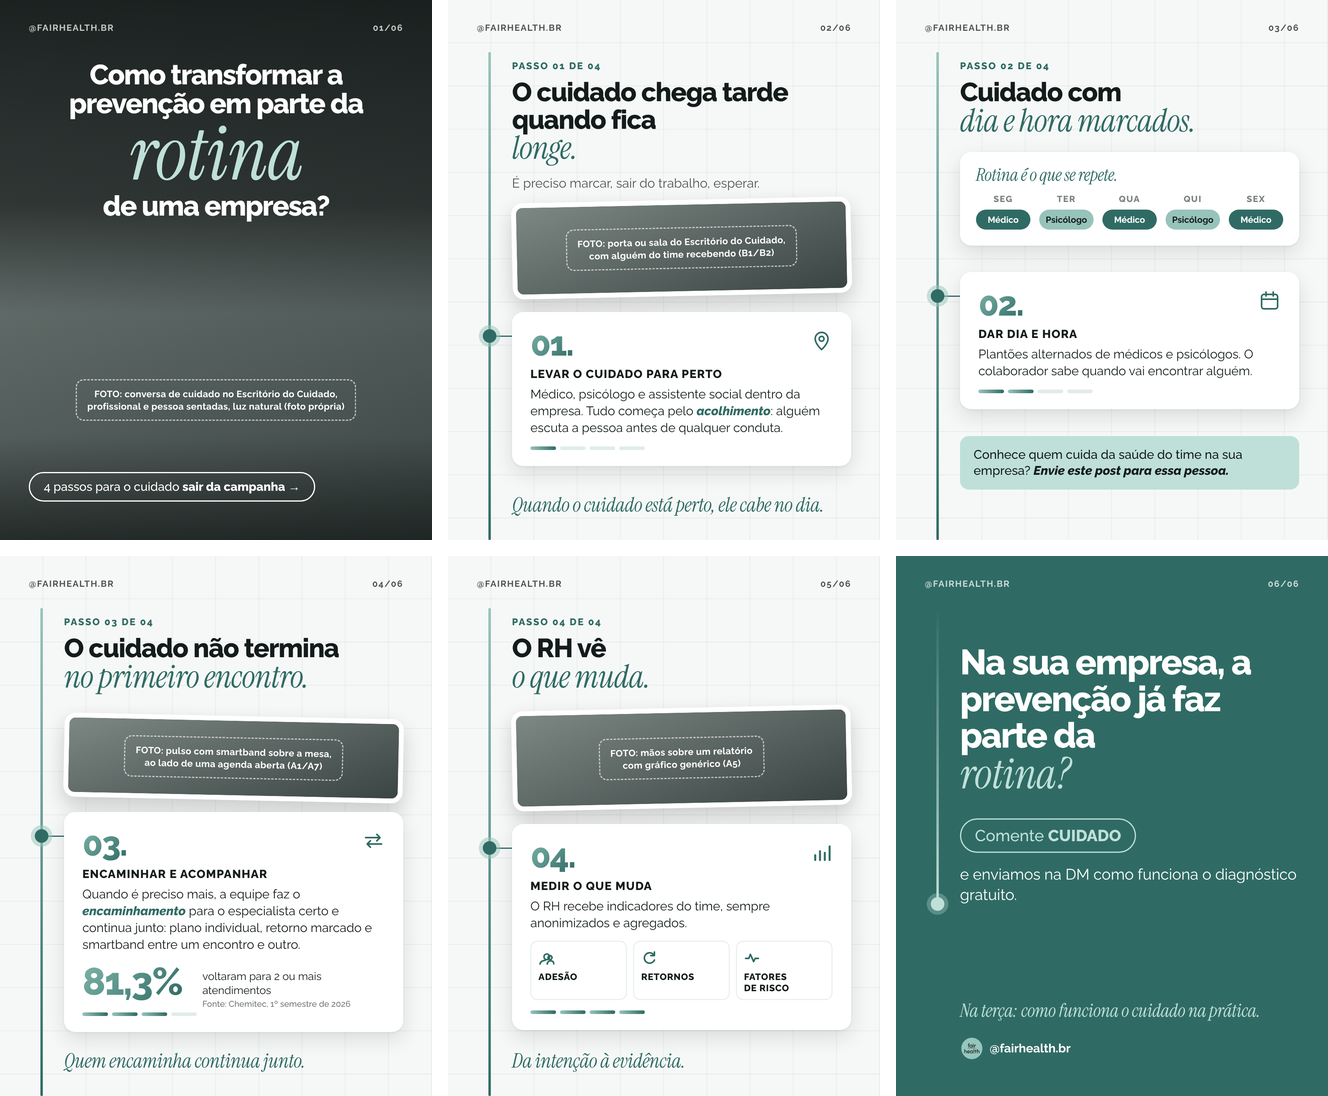
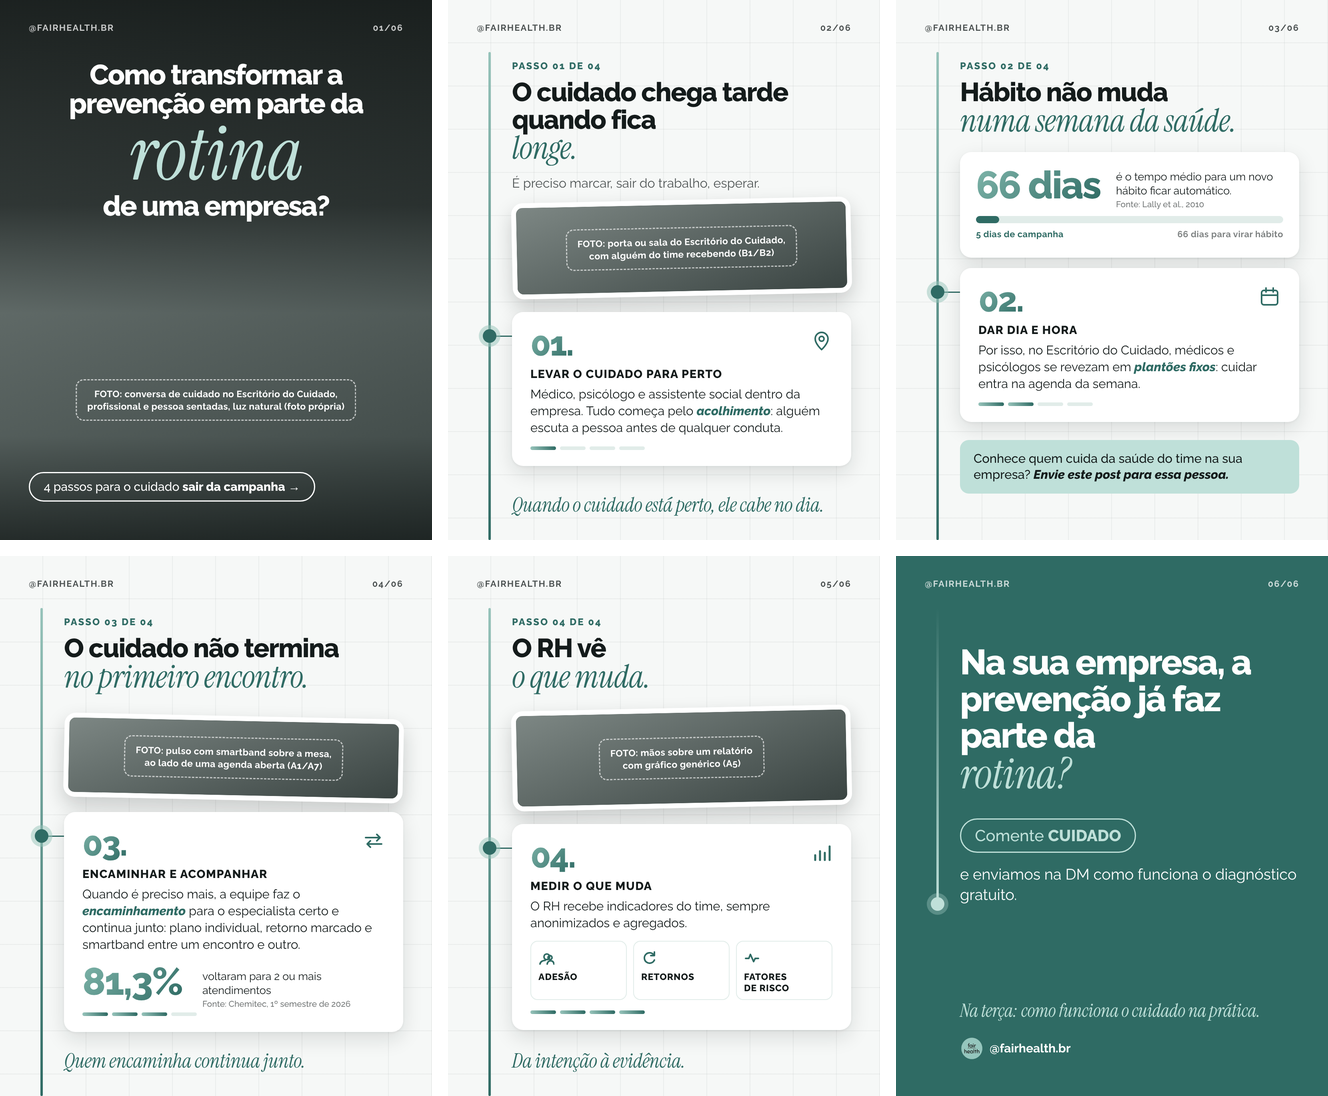
30/10 slide 3: habit takes 66 days, a health week lasts 5; fixed shifts as the answer
Claude-Session: https://claude.ai/code/session_01WTGmTaRhjyKBgMjzkeci7z

Changed region(s): [[0.7101, 0.1551, 0.988, 0.4653], [0.7101, 0.062, 0.9262, 0.1241], [0.6792, 0.2482, 0.7101, 0.2792]]

diff --git a/instagram/posts/rotina/canva.html b/instagram/posts/rotina/canva.html
@@ -114,6 +114,10 @@ b,em{font-weight:800;font-style:italic}
 .med{background:var(--escuro)}.med-t{color:#fff}
 .psi{background:var(--agua)}.psi-t{color:var(--tinta)}
 .cta{position:absolute;left:160px;right:72px;background:var(--menta);border-radius:22px}
+.dias{position:relative;height:66px;margin-top:22px}
+.dias-f{position:absolute;left:0;right:0;top:0;height:18px;border-radius:9px;background:#E1ECE9}
+.dias-c{position:absolute;left:0;top:0;width:58px;height:18px;border-radius:9px;background:var(--escuro)}
+.dias-l{position:absolute;top:32px;font-size:22px;font-weight:700;letter-spacing:.5px}
 
 /* Indicadores (slide 5). */
 .inds{position:relative;height:148px;margin-top:24px}
@@ -177,33 +181,35 @@ body{background:none;margin:0}
   <p class="fecho abs" style="left:160px;right:72px;bottom:62px">Quando o cuidado está perto, ele cabe no dia.</p>
 </section>
 
-<!-- 3 · PASSO 02 + CTA: plantões com dia e hora. A semana é o visual do slide. -->
+<!-- 3 · PASSO 02 + CTA: por que o cuidado precisa de dia e hora. Hábito leva semanas, uma
+     campanha dura dias; a barra mostra os 5 dias da semana da saúde contra os 66 dias do hábito. -->
 <section data-document-role="page" class="slide ed grade" id="r-03">
   <div class="topo"><span>@fairhealth.br</span><span>03/06</span></div>
   <div class="trilho"></div>
   <p class="rotulo abs" style="left:160px;top:150px">Passo 02 de 04</p>
-  <h2 class="h tit" style="top:196px">Cuidado com</h2>
-  <p class="serif tit-s" style="top:262px">dia e hora marcados.</p>
+  <h2 class="h tit" style="top:196px">Hábito não muda</h2>
+  <p class="serif tit-s" style="top:262px">numa semana da saúde.</p>
   <div class="cartao" style="top:380px;padding:34px 40px 38px">
-    <p class="fecho" style="font-size:44px">Rotina é o que se repete.</p>
-    <div class="semana">
-        <p class="dia-l" style="left:0px">SEG</p><div class="dia-c med" style="left:0px"></div><p class="dia-t med-t" style="left:0px">Médico</p>
-        <p class="dia-l" style="left:158px">TER</p><div class="dia-c psi" style="left:158px"></div><p class="dia-t psi-t" style="left:158px">Psicólogo</p>
-        <p class="dia-l" style="left:316px">QUA</p><div class="dia-c med" style="left:316px"></div><p class="dia-t med-t" style="left:316px">Médico</p>
-        <p class="dia-l" style="left:474px">QUI</p><div class="dia-c psi" style="left:474px"></div><p class="dia-t psi-t" style="left:474px">Psicólogo</p>
-        <p class="dia-l" style="left:632px">SEX</p><div class="dia-c med" style="left:632px"></div><p class="dia-t med-t" style="left:632px">Médico</p>
+    <div style="position:relative;height:104px">
+      <span class="n abs" style="left:0;top:0;font-size:96px">66 dias</span>
+      <div class="abs" style="left:350px;right:0;top:10px"><p class="c" style="margin:0;font-size:27px;line-height:1.3">é o tempo médio para um novo hábito ficar automático.</p><p class="fonte" style="margin-top:4px">Fonte: Lally et al., 2010</p></div>
+    </div>
+    <div class="dias">
+      <div class="dias-f"></div><div class="dias-c"></div>
+      <p class="dias-l" style="left:0;color:var(--escuro)">5 dias de campanha</p>
+      <p class="dias-l" style="right:0;opacity:.55">66 dias para virar hábito</p>
     </div>
   </div>
-  <div class="ponto" style="top:740px"></div><div class="liga" style="top:740px"></div>
-  <div class="cartao" style="top:680px">
+  <div class="ponto" style="top:730px"></div><div class="liga" style="top:730px"></div>
+  <div class="cartao" style="top:670px">
     <span class="n">02.</span>
     <div class="ic"><svg viewBox="0 0 56 56" fill="none" stroke="#2F6B64" stroke-width="4" stroke-linecap="round" stroke-linejoin="round"><rect x="8" y="12" width="40" height="36" rx="6"/><path d="M8 24h40M19 6v10M37 6v10"/></svg></div>
     <p class="t">Dar dia e hora</p>
-    <p class="c">Plantões alternados de médicos e psicólogos. O colaborador sabe quando vai encontrar alguém.</p>
+    <p class="c">Por isso, no Escritório do Cuidado, médicos e psicólogos se revezam em <b>plantões fixos</b>: cuidar entra na agenda da semana.</p>
     <div class="barra"><i class="on"></i><i class="on"></i><i></i><i></i></div>
   </div>
-  <div class="cta" style="top:1090px;height:134px"></div>
-  <p class="abs" style="left:194px;right:106px;top:1116px;font-size:31px;line-height:1.3;font-weight:500;color:var(--tinta)">Conhece quem cuida da saúde do time na sua empresa? <b>Envie este post para essa pessoa.</b></p>
+  <div class="cta" style="top:1100px;height:134px"></div>
+  <p class="abs" style="left:194px;right:106px;top:1126px;font-size:31px;line-height:1.3;font-weight:500;color:var(--tinta)">Conhece quem cuida da saúde do time na sua empresa? <b>Envie este post para essa pessoa.</b></p>
 </section>
 
 <!-- 4 · PASSO 03: encaminhamento e acompanhamento, com a prova da Chemitec. -->

diff --git a/instagram/posts/rotina/slides.html b/instagram/posts/rotina/slides.html
@@ -71,6 +71,10 @@
 .med{background:var(--escuro)}.med-t{color:#fff}
 .psi{background:var(--agua)}.psi-t{color:var(--tinta)}
 .cta{position:absolute;left:160px;right:72px;background:var(--menta);border-radius:22px}
+.dias{position:relative;height:66px;margin-top:22px}
+.dias-f{position:absolute;left:0;right:0;top:0;height:18px;border-radius:9px;background:#E1ECE9}
+.dias-c{position:absolute;left:0;top:0;width:58px;height:18px;border-radius:9px;background:var(--escuro)}
+.dias-l{position:absolute;top:32px;font-size:22px;font-weight:700;letter-spacing:.5px}
 
 /* Indicadores (slide 5). */
 .inds{position:relative;height:148px;margin-top:24px}
@@ -134,33 +138,35 @@ body{background:none;margin:0}
   <p class="fecho abs" style="left:160px;right:72px;bottom:62px">Quando o cuidado está perto, ele cabe no dia.</p>
 </section>
 
-<!-- 3 · PASSO 02 + CTA: plantões com dia e hora. A semana é o visual do slide. -->
+<!-- 3 · PASSO 02 + CTA: por que o cuidado precisa de dia e hora. Hábito leva semanas, uma
+     campanha dura dias; a barra mostra os 5 dias da semana da saúde contra os 66 dias do hábito. -->
 <section class="slide ed grade" id="r-03">
   <div class="topo"><span>@fairhealth.br</span><span>03/06</span></div>
   <div class="trilho"></div>
   <p class="rotulo abs" style="left:160px;top:150px">Passo 02 de 04</p>
-  <h2 class="h tit" style="top:196px">Cuidado com</h2>
-  <p class="serif tit-s" style="top:262px">dia e hora marcados.</p>
+  <h2 class="h tit" style="top:196px">Hábito não muda</h2>
+  <p class="serif tit-s" style="top:262px">numa semana da saúde.</p>
   <div class="cartao" style="top:380px;padding:34px 40px 38px">
-    <p class="fecho" style="font-size:44px">Rotina é o que se repete.</p>
-    <div class="semana">
-        <p class="dia-l" style="left:0px">SEG</p><div class="dia-c med" style="left:0px"></div><p class="dia-t med-t" style="left:0px">Médico</p>
-        <p class="dia-l" style="left:158px">TER</p><div class="dia-c psi" style="left:158px"></div><p class="dia-t psi-t" style="left:158px">Psicólogo</p>
-        <p class="dia-l" style="left:316px">QUA</p><div class="dia-c med" style="left:316px"></div><p class="dia-t med-t" style="left:316px">Médico</p>
-        <p class="dia-l" style="left:474px">QUI</p><div class="dia-c psi" style="left:474px"></div><p class="dia-t psi-t" style="left:474px">Psicólogo</p>
-        <p class="dia-l" style="left:632px">SEX</p><div class="dia-c med" style="left:632px"></div><p class="dia-t med-t" style="left:632px">Médico</p>
+    <div style="position:relative;height:104px">
+      <span class="n abs" style="left:0;top:0;font-size:96px">66 dias</span>
+      <div class="abs" style="left:350px;right:0;top:10px"><p class="c" style="margin:0;font-size:27px;line-height:1.3">é o tempo médio para um novo hábito ficar automático.</p><p class="fonte" style="margin-top:4px">Fonte: Lally et al., 2010</p></div>
+    </div>
+    <div class="dias">
+      <div class="dias-f"></div><div class="dias-c"></div>
+      <p class="dias-l" style="left:0;color:var(--escuro)">5 dias de campanha</p>
+      <p class="dias-l" style="right:0;opacity:.55">66 dias para virar hábito</p>
     </div>
   </div>
-  <div class="ponto" style="top:740px"></div><div class="liga" style="top:740px"></div>
-  <div class="cartao" style="top:680px">
+  <div class="ponto" style="top:730px"></div><div class="liga" style="top:730px"></div>
+  <div class="cartao" style="top:670px">
     <span class="n">02.</span>
     <div class="ic"><svg viewBox="0 0 56 56" fill="none" stroke="#2F6B64" stroke-width="4" stroke-linecap="round" stroke-linejoin="round"><rect x="8" y="12" width="40" height="36" rx="6"/><path d="M8 24h40M19 6v10M37 6v10"/></svg></div>
     <p class="t">Dar dia e hora</p>
-    <p class="c">Plantões alternados de médicos e psicólogos. O colaborador sabe quando vai encontrar alguém.</p>
+    <p class="c">Por isso, no Escritório do Cuidado, médicos e psicólogos se revezam em <b>plantões fixos</b>: cuidar entra na agenda da semana.</p>
     <div class="barra"><i class="on"></i><i class="on"></i><i></i><i></i></div>
   </div>
-  <div class="cta" style="top:1090px;height:134px"></div>
-  <p class="abs" style="left:194px;right:106px;top:1116px;font-size:31px;line-height:1.3;font-weight:500;color:var(--tinta)">Conhece quem cuida da saúde do time na sua empresa? <b>Envie este post para essa pessoa.</b></p>
+  <div class="cta" style="top:1100px;height:134px"></div>
+  <p class="abs" style="left:194px;right:106px;top:1126px;font-size:31px;line-height:1.3;font-weight:500;color:var(--tinta)">Conhece quem cuida da saúde do time na sua empresa? <b>Envie este post para essa pessoa.</b></p>
 </section>
 
 <!-- 4 · PASSO 03: encaminhamento e acompanhamento, com a prova da Chemitec. -->
